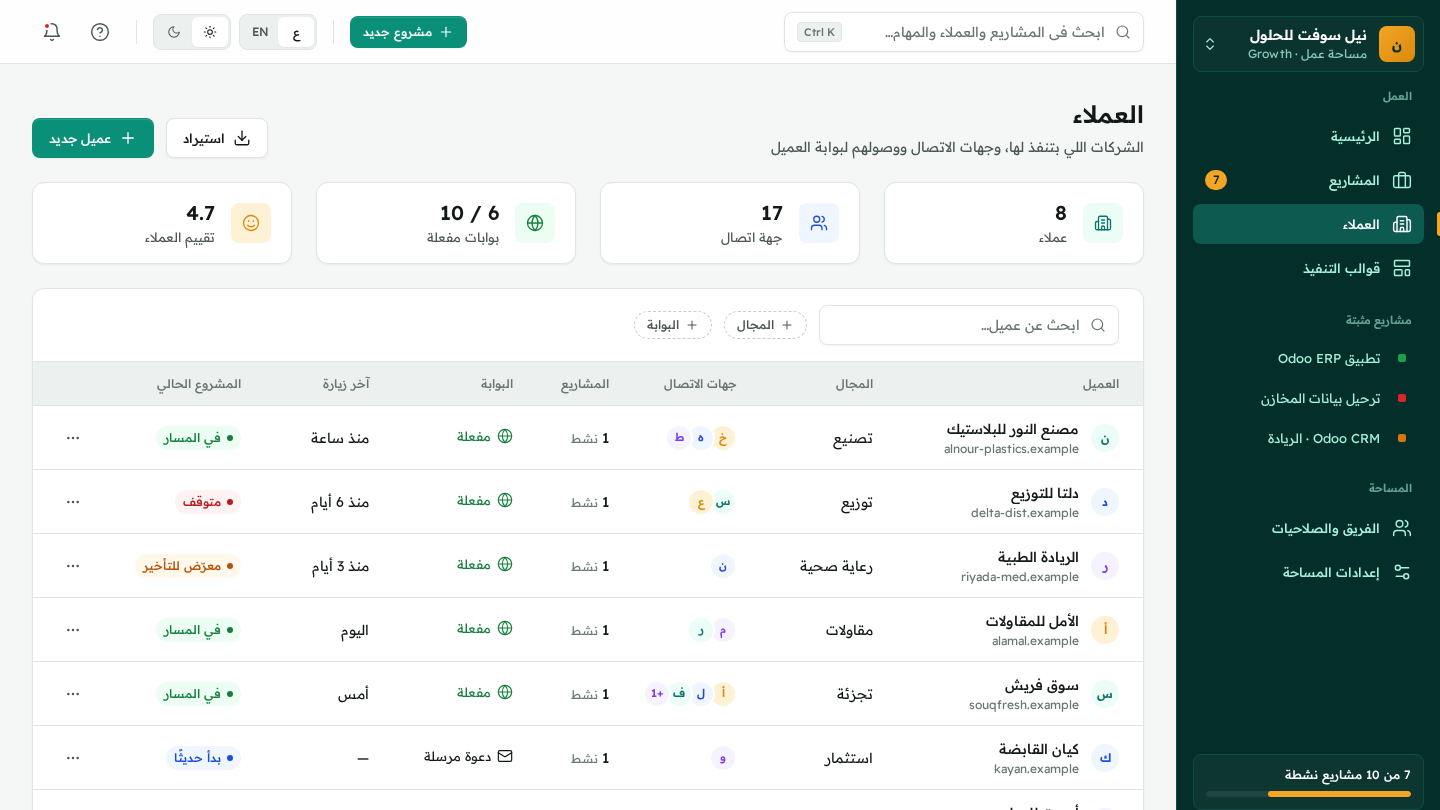
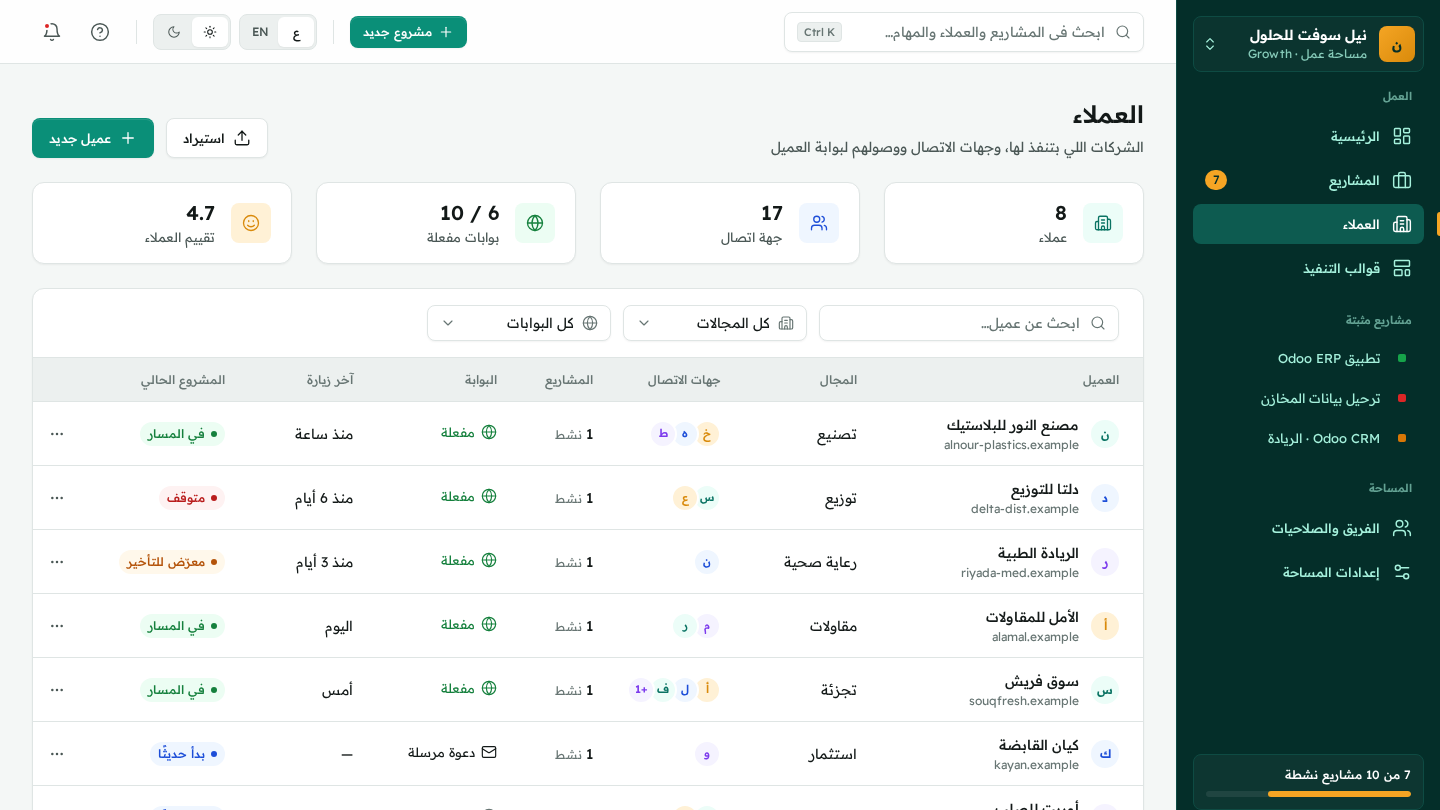
Workspace clients (new/import/view/portal) and team (invites, guests, roles)

diff --git a/ws-clients.html b/ws-clients.html
@@ -13,6 +13,9 @@
 .tbl td.co a:hover .nm{color:var(--gl-brand-text)}
 .portal-st{display:inline-flex;align-items:center;gap:6px;font:var(--gl-type-body-sm)}
 .portal-st svg.i{width:16px;height:16px}
+
+.toolbar .sel{width:184px}.toolbar .sel .control{width:100%}
+.toolbar .search{width:300px}
 </style>
 </head>
 <body>
@@ -21,26 +24,62 @@
 <script src="assets/charts.js"></script>
 <script src="assets/data.js"></script>
 <script src="assets/app.js"></script>
+<script src="assets/interact.js"></script>
 <script>
+const IND = [['mfg', 'تصنيع', 'Manufacturing'], ['dist', 'توزيع', 'Distribution'], ['health', 'رعاية صحية', 'Healthcare'], ['const', 'مقاولات', 'Construction'], ['retail', 'تجزئة', 'Retail'], ['hold', 'استثمار', 'Holding'], ['fnb', 'أغذية', 'F&B']];
+const clForm = (L, { ui }) => `<div class="sec-title">${L('الشركة', 'Company')}</div><div class="form-grid">
+  ${ui.field(L('اسم العميل', 'Client name'), ui.input('name', { req: 1, icon: 'building-2' }), { req: 1, full: 1 })}
+  ${ui.field(L('الدومين', 'Domain'), ui.input('domain', { req: 1, ltr: 1, icon: 'globe', ph: 'client.example' }), { req: 1 })}
+  ${ui.field(L('المجال', 'Industry'), ui.select('ind', IND.map(i => [i[0], GL.L(i[1], i[2])]), { ph: L('اختار', 'Choose'), req: 1 }), { req: 1 })}
+  ${ui.field(L('عدد الموظفين', 'Company size'), ui.select('size', ['1–50', '51–200', '201–500', '500+']))}
+  ${ui.field(L('الدولة', 'Country'), ui.select('country', [L('مصر', 'Egypt'), L('السعودية', 'Saudi Arabia'), L('الإمارات', 'UAE')]))}</div>
+  <div class="sec-title">${L('جهة الاتصال الأساسية', 'Primary contact')}</div><div class="form-grid">
+  ${ui.field(L('الاسم', 'Name'), ui.input('cn', { req: 1, icon: 'user' }), { req: 1 })}${ui.field(L('المسمى الوظيفي', 'Job title'), ui.input('ct', { ph: L('المدير المالي', 'CFO') }))}
+  ${ui.field(L('البريد', 'Email'), ui.input('ce', { req: 1, type: 'email', ltr: 1, icon: 'mail', ph: 'name@client.example' }), { req: 1 })}${ui.field(L('الموبايل', 'Phone'), ui.input('cp', { ltr: 1, icon: 'phone', ph: '+20 10 0000 0000' }))}</div>
+  <div class="set-row" style="padding:0"><div class="grow"><div class="t-strong">${L('ابعت دعوة لبوابة العميل', 'Invite to the client portal')}</div><div class="t-sm sec">${L('6 من 10 بوابات مستخدمة في خطتك', '6 of 10 portals used on your plan')}</div></div><span class="switch on" data-static data-val="portal"></span></div>`;
+const clRow = (L, ui, icon, c) => { const ps = { on: ['globe', 'yes', L('مفعلة', 'Active')], inv: ['mail', '', L('دعوة مرسلة', 'Invited')], off: ['ban', 'muted', L('مقفولة', 'Off')] };
+  return `<tr data-row data-ind="${c[11]}" data-portal="${c[7]}">
+          <td class="co"><a class="cell-co" href="#" data-open="view">${ui.av(c[2], c[3], '')}<div><div class="nm" data-f="name">${c[0]}</div><div class="dm" data-f="domain">${c[1]}</div></div></a></td>
+          <td class="sec">${c[4]}</td><td>${ui.stack(c[5])}</td><td><span class="t-strong">${c[6]}</span> <span class="t-cap muted">${L('نشط', 'active')}</span></td>
+          <td data-ps><span class="portal-st ${ps[c[7]][1]}">${icon(ps[c[7]][0])}${ps[c[7]][2]}</span></td><td class="sec">${c[8]}</td>
+          <td>${c[10] ? ui.tag(GL_HEALTH[c[10]][0], L(GL_HEALTH[c[10]][1], GL_HEALTH[c[10]][2])) : `<span class="t-sm muted">${L('مفيش مشروع', 'No project')}</span>`}</td>
+          <td class="right">${ui.menuBtn('cl')}</td></tr>`; };
 GL.mount({
   shell: 'ws', nav: 'ws-clients',
+  modals: {
+    new: { kind: 'drawer', size: 'lg', icon: 'building-2', title: L => L('عميل جديد', 'New client'), body: clForm, submit: L => L('إضافة العميل', 'Add client'), submitIcon: 'plus',
+      add: { table: 'clTbl', row: (v, L) => clRow(L, GL.ui, GL.icon, [v.name, v.domain, v.name.trim()[0], 'av-teal', GL.L(...(IND.find(i => i[0] === v.ind) || ['', '—', '—']).slice(1)), [[v.cn.trim()[0], 'av-amber']], 0, v.portal ? 'inv' : 'off', '—', '', '', v.ind]) },
+      toast: (L, v) => [L('اتضاف العميل', 'Client added'), v.portal ? L('واتبعتت دعوة البوابة لـ ', 'Portal invite sent to ') + v.ce : ''] },
+    edit: { kind: 'drawer', size: 'lg', icon: 'pencil', title: L => L('تعديل العميل', 'Edit client'), sub: (L, c) => c.name, body: clForm, toast: L => [L('اتحفظ العميل', 'Client saved'), ''] },
+    import: { icon: 'upload', title: L => L('استيراد عملاء', 'Import clients'), sub: L => L('من ملف CSV أو Excel', 'From a CSV or Excel file'),
+      body: L => `<div class="dropzone">${GL.icon('cloud-upload')}<span>${L('اسحب الملف هنا أو', 'Drop the file here or')} <b class="brand-t">${L('اختار', 'browse')}</b></span><a class="link t-cap" href="#" data-toast="success|${L('اتحمل القالب', 'Template downloaded')}|clients_template.csv">${L('حمّل القالب', 'Download template')}</a></div>
+        <div class="att" style="width:100%">${GL.icon('file-spreadsheet', 'sm')}<span class="ltr grow" style="text-align:start">crm_export_nov.csv</span><span class="muted">24 ${L('سطر', 'rows')}</span>${GL.ui.tag('success', L('جاهز', 'Ready'), false)}</div>
+        <table class="tbl compact"><thead><tr><th>${L('عمود الملف', 'File column')}</th><th>${L('الحقل', 'Maps to')}</th></tr></thead><tbody>${[['company_name', L('اسم العميل', 'Client name')], ['website', L('الدومين', 'Domain')], ['contact_email', L('بريد جهة الاتصال', 'Contact email')], ['sector', L('المجال', 'Industry')]].map(r => `<tr><td class="ltr">${r[0]}</td><td>${GL.ui.select('m' + r[0], [r[1], L('تجاهل', 'Skip')], { cls: 'sm' })}</td></tr>`).join('')}</tbody></table>`,
+      submit: L => L('استيراد 24 عميل', 'Import 24 clients'), toast: L => [L('اتستورد 24 عميل', '24 clients imported'), L('2 اتجاهلوا لأنهم موجودين', '2 skipped as duplicates')] },
+    view: { kind: 'drawer', size: 'lg', icon: 'building-2', title: (L, c) => c.name, sub: (L, c) => c.domain,
+      body: (L, { ui }) => `<div class="sec-title">${L('جهات الاتصال', 'Contacts')}</div><div class="stack gap-2">${[[L('خ', 'KM'), 'av-amber', L('خالد منصور', 'Khaled Mansour'), L('المدير المالي · صاحب القرار', 'CFO · Decision maker'), 'on'], [L('ه', 'HS'), 'av-blue', L('هبة سليم', 'Heba Selim'), L('مديرة المشتريات', 'Procurement manager'), 'on'], [L('ط', 'TF'), 'av-violet', L('طارق فوزي', 'Tarek Fawzy'), L('مسؤول IT', 'IT lead'), 'inv']].map(c => `<div class="apc" data-row>${ui.av(c[0], c[1], 'round')}<div class="grow"><div class="t-strong" data-f="name">${c[2]}</div><div class="t-sm sec">${c[3]}</div></div>${c[4] === 'on' ? ui.tag('success', L('في البوابة', 'In portal')) : ui.tag('info', L('دعوة مرسلة', 'Invited'))}<button type="button" class="icon-btn sm" data-delete="${c[2]}">${GL.icon('trash-2')}</button></div>`).join('')}<button type="button" class="btn btn-outline btn-sm" style="align-self:flex-start" data-toast="info|${L('أضف جهة اتصال من صفحة المشروع', 'Add contacts from the project page')}|">${GL.icon('plus', 'sm')}${L('جهة اتصال', 'Contact')}</button></div>
+        <div class="sec-title">${L('المشاريع', 'Projects')}</div><a class="apc" href="ws-project.html"><span class="ic-tile">${GL.icon('briefcase', 'sm')}</span><div class="grow"><div class="t-strong">${L('تطبيق Odoo ERP', 'Odoo ERP rollout')}</div><div class="t-sm sec">${L('UAT · 72% · الإطلاق 15 ديسمبر', 'UAT · 72% · go-live Dec 15')}</div></div>${ui.tag('success', L('في المسار', 'On track'))}</a>`,
+      foot: L => `<a class="btn btn-outline" href="portal.html">${GL.icon('external-link', 'sm')}${L('معاينة البوابة', 'Preview portal')}</a><button type="button" class="btn btn-primary" data-close>${L('تم', 'Done')}</button>` }
+  },
+  menus: { cl: [{ icon: 'eye', ar: 'عرض العميل', en: 'View client', open: 'view' }, { icon: 'pencil', ar: 'تعديل', en: 'Edit', open: 'edit' }, { icon: 'briefcase', ar: 'مشروع جديد', en: 'New project', href: 'ws-projects.html?open=new' }, { icon: 'mail', ar: 'إعادة إرسال دعوة البوابة', en: 'Resend portal invite', toast: (L, n) => `success|${L('اتبعتت الدعوة', 'Invite resent')}|${n}` }, { icon: 'ban', ar: 'قفل البوابة', en: 'Disable portal', confirm: 'off' }, '-', { icon: 'trash-2', ar: 'حذف', en: 'Delete', del: 1, danger: 1 }] },
+  confirms: { off: { danger: 1, icon: 'ban', title: (L, c) => L(`قفل بوابة ${c.name}؟`, `Disable the portal for ${c.name}?`), text: L => L('جهات الاتصال مش هيقدروا يدخلوا، والبيانات هتفضل محفوظة.', 'Contacts lose access; data is kept.'), btn: L => L('قفل', 'Disable'), run: (L, c, row) => { row.querySelector('[data-ps]').innerHTML = `<span class="portal-st muted">${GL.icon('ban')}${L('مقفولة', 'Off')}</span>`; row.dataset.portal = 'off'; GLI.flash(row); }, toast: L => [L('اتقفلت البوابة', 'Portal disabled'), ''] } },
   title: L => L('العملاء', 'Clients'),
   render: (L, { icon, ui }) => {
     const C = [
-      [L('مصنع النور للبلاستيك', 'Al Nour Plastics'), 'alnour-plastics.example', L('ن', 'AN'), 'av-teal', L('تصنيع', 'Manufacturing'), [[L('خ', 'KM'), 'av-amber'], [L('ه', 'HS'), 'av-blue'], [L('ط', 'TF'), 'av-violet']], 1, 'on', L('منذ ساعة', '1h ago'), '$48,000', 'ok'],
-      [L('دلتا للتوزيع', 'Delta Distribution'), 'delta-dist.example', L('د', 'DD'), 'av-blue', L('توزيع', 'Distribution'), [[L('س', 'SM'), 'av-teal'], [L('ع', 'AR'), 'av-amber']], 1, 'on', L('منذ 6 أيام', '6 days ago'), '$22,500', 'blocked'],
-      [L('الريادة الطبية', 'Riyada Medical'), 'riyada-med.example', L('ر', 'RM'), 'av-violet', L('رعاية صحية', 'Healthcare'), [[L('ن', 'NA'), 'av-blue']], 1, 'on', L('منذ 3 أيام', '3 days ago'), '$18,000', 'risk'],
-      [L('الأمل للمقاولات', 'Al Amal Contracting'), 'alamal.example', L('أ', 'AA'), 'av-amber', L('مقاولات', 'Construction'), [[L('م', 'MS'), 'av-violet'], [L('ر', 'RA'), 'av-teal']], 1, 'on', L('اليوم', 'Today'), '$15,600', 'ok'],
-      [L('سوق فريش', 'Souq Fresh'), 'souqfresh.example', L('س', 'SF'), 'av-teal', L('تجزئة', 'Retail'), [[L('أ', 'AK'), 'av-amber'], [L('ل', 'LM'), 'av-blue'], [L('ف', 'FH'), 'av-teal'], ['+1', 'av-violet']], 1, 'on', L('أمس', 'Yesterday'), '$26,000', 'ok'],
-      [L('كيان القابضة', 'Kayan Holding'), 'kayan.example', L('ك', 'KH'), 'av-blue', L('استثمار', 'Holding'), [[L('و', 'WS'), 'av-violet']], 1, 'inv', '—', '$31,000', 'kick'],
-      [L('أوربت للصلب', 'Orbit Steel'), 'orbit-steel.example', L('أ', 'OS'), 'av-violet', L('تصنيع', 'Manufacturing'), [[L('ج', 'GN'), 'av-teal'], [L('ش', 'SH'), 'av-amber']], 1, 'off', '—', '$54,000', 'kick'],
-      [L('وادي للأغذية', 'Wadi Foods'), 'wadi-foods.example', L('و', 'WF'), 'av-amber', L('أغذية', 'F&B'), [[L('ه', 'HZ'), 'av-blue']], 0, 'on', L('منذ شهر', '1 month ago'), '$19,800', 'done']
+      [L('مصنع النور للبلاستيك', 'Al Nour Plastics'), 'alnour-plastics.example', L('ن', 'AN'), 'av-teal', L('تصنيع', 'Manufacturing'), [[L('خ', 'KM'), 'av-amber'], [L('ه', 'HS'), 'av-blue'], [L('ط', 'TF'), 'av-violet']], 1, 'on', L('منذ ساعة', '1h ago'), '$48,000', 'ok', 'mfg'],
+      [L('دلتا للتوزيع', 'Delta Distribution'), 'delta-dist.example', L('د', 'DD'), 'av-blue', L('توزيع', 'Distribution'), [[L('س', 'SM'), 'av-teal'], [L('ع', 'AR'), 'av-amber']], 1, 'on', L('منذ 6 أيام', '6 days ago'), '$22,500', 'blocked', 'dist'],
+      [L('الريادة الطبية', 'Riyada Medical'), 'riyada-med.example', L('ر', 'RM'), 'av-violet', L('رعاية صحية', 'Healthcare'), [[L('ن', 'NA'), 'av-blue']], 1, 'on', L('منذ 3 أيام', '3 days ago'), '$18,000', 'risk', 'health'],
+      [L('الأمل للمقاولات', 'Al Amal Contracting'), 'alamal.example', L('أ', 'AA'), 'av-amber', L('مقاولات', 'Construction'), [[L('م', 'MS'), 'av-violet'], [L('ر', 'RA'), 'av-teal']], 1, 'on', L('اليوم', 'Today'), '$15,600', 'ok', 'const'],
+      [L('سوق فريش', 'Souq Fresh'), 'souqfresh.example', L('س', 'SF'), 'av-teal', L('تجزئة', 'Retail'), [[L('أ', 'AK'), 'av-amber'], [L('ل', 'LM'), 'av-blue'], [L('ف', 'FH'), 'av-teal'], ['+1', 'av-violet']], 1, 'on', L('أمس', 'Yesterday'), '$26,000', 'ok', 'retail'],
+      [L('كيان القابضة', 'Kayan Holding'), 'kayan.example', L('ك', 'KH'), 'av-blue', L('استثمار', 'Holding'), [[L('و', 'WS'), 'av-violet']], 1, 'inv', '—', '$31,000', 'kick', 'hold'],
+      [L('أوربت للصلب', 'Orbit Steel'), 'orbit-steel.example', L('أ', 'OS'), 'av-violet', L('تصنيع', 'Manufacturing'), [[L('ج', 'GN'), 'av-teal'], [L('ش', 'SH'), 'av-amber']], 1, 'off', '—', '$54,000', 'kick', 'mfg'],
+      [L('وادي للأغذية', 'Wadi Foods'), 'wadi-foods.example', L('و', 'WF'), 'av-amber', L('أغذية', 'F&B'), [[L('ه', 'HZ'), 'av-blue']], 0, 'on', L('منذ شهر', '1 month ago'), '$19,800', 'done', 'fnb']
     ];
-    const ps = { on: ['globe', 'yes', L('مفعلة', 'Active')], inv: ['mail', '', L('دعوة مرسلة', 'Invited')], off: ['ban', 'muted', L('مقفولة', 'Off')] };
+    const _ps = { on: ['globe', 'yes', L('مفعلة', 'Active')], inv: ['mail', '', L('دعوة مرسلة', 'Invited')], off: ['ban', 'muted', L('مقفولة', 'Off')] };
     return `
     <div class="page-head">
       <div><h1 class="t-h1">${L('العملاء', 'Clients')}</h1><p class="sub">${L('الشركات اللي بتنفذ لها، وجهات الاتصال ووصولهم لبوابة العميل', 'Companies you implement for, their contacts and client-portal access')}</p></div>
-      <div class="actions"><button class="btn btn-outline">${icon('download', 'sm')}${L('استيراد', 'Import')}</button><button class="btn btn-primary">${icon('plus', 'sm')}${L('عميل جديد', 'New client')}</button></div>
+      <div class="actions"><button class="btn btn-outline" data-open="import">${icon('upload', 'sm')}${L('استيراد', 'Import')}</button><button class="btn btn-primary" data-open="new">${icon('plus', 'sm')}${L('عميل جديد', 'New client')}</button></div>
     </div>
     <section class="stat-strip">
       ${ui.mini('building-2', '', '8', L('عملاء', 'Clients'))}
@@ -49,16 +88,11 @@ GL.mount({
       ${ui.mini('smile', ui.tone.accent, '4.7', L('تقييم العملاء', 'Client rating'))}
     </section>
     <section class="card table-wrap">
-      <div class="toolbar"><label class="control search">${icon('search', 'sm')}<input placeholder="${L('ابحث عن عميل…', 'Search clients…')}"></label><span class="chip">${icon('plus')}${L('المجال', 'Industry')}</span><span class="chip">${icon('plus')}${L('البوابة', 'Portal')}</span></div>
-      <table class="tbl">
-        <colgroup><col><col style="width:136px"><col style="width:128px"><col style="width:96px"><col style="width:144px"><col style="width:128px"><col style="width:152px"><col style="width:72px"></colgroup>
+      <div class="toolbar"><label class="control search sm">${icon('search', 'sm')}<input data-search="clTbl" placeholder="${L('ابحث عن عميل…', 'Search clients…')}"></label><span class="sel sm">${ui.select('i', IND.map(i => [i[0], L(i[1], i[2])]), { ph: L('كل المجالات', 'All industries'), filter: 'clTbl', key: 'ind', cls: 'sm', icon: 'building-2' })}</span><span class="sel sm">${ui.select('p', [['on', L('مفعلة', 'Active')], ['inv', L('دعوة مرسلة', 'Invited')], ['off', L('مقفولة', 'Off')]], { ph: L('كل البوابات', 'Any portal status'), filter: 'clTbl', key: 'portal', cls: 'sm', icon: 'globe' })}</span></div>
+      <table class="tbl" id="clTbl">
+        <colgroup><col><col style="width:136px"><col style="width:128px"><col style="width:96px"><col style="width:144px"><col style="width:128px"><col style="width:152px"><col style="width:56px"></colgroup>
         <thead><tr><th>${L('العميل', 'Client')}</th><th>${L('المجال', 'Industry')}</th><th>${L('جهات الاتصال', 'Contacts')}</th><th>${L('المشاريع', 'Projects')}</th><th>${L('البوابة', 'Portal')}</th><th>${L('آخر زيارة', 'Last visit')}</th><th>${L('المشروع الحالي', 'Current project')}</th><th></th></tr></thead>
-        <tbody>${C.map(c => `<tr>
-          <td class="co"><a class="cell-co" href="ws-project.html">${ui.av(c[2], c[3], '')}<div><div class="nm">${c[0]}</div><div class="dm">${c[1]}</div></div></a></td>
-          <td class="sec">${c[4]}</td><td>${ui.stack(c[5])}</td><td><span class="t-strong">${c[6]}</span> <span class="t-cap muted">${L('نشط', 'active')}</span></td>
-          <td><span class="portal-st ${ps[c[7]][1]}">${icon(ps[c[7]][0])}${ps[c[7]][2]}</span></td><td class="sec">${c[8]}</td>
-          <td>${ui.tag(GL_HEALTH[c[10]][0], L(GL_HEALTH[c[10]][1], GL_HEALTH[c[10]][2]))}</td>
-          <td class="right"><button class="icon-btn sm">${icon('more')}</button></td></tr>`).join('')}</tbody>
+        <tbody>${C.map(c => clRow(L, ui, icon, c)).join('')}</tbody>
       </table>
     </section>`;
   }

diff --git a/ws-team.html b/ws-team.html
@@ -20,6 +20,8 @@
 .seats b{font:var(--gl-type-kpi)}
 .skills{display:flex;gap:4px;flex-wrap:nowrap;overflow:hidden}
 .skills .tag{height:22px}
+
+.toolbar .sel{width:184px}.toolbar .sel .control{width:100%}
 </style>
 </head>
 <body>
@@ -28,13 +30,34 @@
 <script src="assets/charts.js"></script>
 <script src="assets/data.js"></script>
 <script src="assets/app.js"></script>
+<script src="assets/interact.js"></script>
 <script>
+const tmR = L => ({ owner: ['accent', L('مالك', 'Owner')], admin: ['violet', L('مسؤول', 'Admin')], pm: ['brand', L('مدير مشروع', 'Project manager')], consultant: ['info', L('استشاري', 'Consultant')], viewer: ['neutral', L('مشاهد', 'Viewer')] });
+const invRow = (L, e, role, sent) => `<tr data-row><td><div class="cell-co"><span class="avatar sm round" style="background:var(--gl-bg-subtle);color:var(--gl-text-muted)">${GL.icon('mail', 'xs')}</span><div class="nm ltr" style="text-align:start" data-f="name">${e}</div></div></td><td>${GL.ui.tag(tmR(L)[role][0], tmR(L)[role][1], false)}</td><td class="sec">${sent}</td><td class="right"><div class="row gap-2" style="justify-content:flex-end"><button class="btn btn-ghost btn-sm" data-toast="success|${L('اتبعتت الدعوة تاني', 'Invite resent')}|${e}">${GL.icon('refresh', 'sm')}${L('إعادة', 'Resend')}</button><button class="btn btn-ghost btn-sm" style="color:var(--gl-danger-fg)" data-delete="${e}">${L('إلغاء', 'Revoke')}</button></div></td></tr>`;
 GL.mount({
   shell: 'ws', nav: 'ws-team',
+  modals: {
+    invite: { icon: 'user-plus', title: L => L('دعوة أعضاء', 'Invite members'), sub: L => L('20 مقعد متاح في خطة Growth', '20 seats left on Growth'),
+      body: (L, { ui }) => `${ui.field(L('البريد', 'Email'), ui.input('email', { req: 1, type: 'email', ltr: 1, icon: 'mail', ph: 'name@nilesoft.example' }), { req: 1, hint: L('لدعوة أكتر من شخص، ابعت الدعوة وكرر', 'To invite several people, send and repeat') })}
+        ${ui.field(L('الدور', 'Role'), ui.select('role', [['consultant', L('استشاري', 'Consultant')], ['pm', L('مدير مشروع', 'Project manager')], ['admin', L('مسؤول', 'Admin')], ['viewer', L('مشاهد', 'Viewer')]], { icon: 'shield' }))}
+        <div class="field"><label>${L('المشاريع', 'Projects')} <span class="t-cap muted">(${L('اختياري', 'optional')})</span></label><div class="row gap-2 wrap" data-multi>${GL_PROJECTS.slice(0, 5).map((p, i) => `<span class="opt ${i === 0 ? 'on' : ''}" style="padding:6px 12px"><span class="box ${i === 0 ? 'on' : ''}">${i === 0 ? GL.icon('check') : ''}</span>${GL.L(p[0], p[1])}</span>`).join('')}</div></div>
+        ${ui.field(L('رسالة', 'Personal note'), ui.textarea('note', { rows: 3, ph: L('أهلًا بيك في فريق نيل سوفت!', 'Welcome to the NileSoft team!') }), { opt: L('اختياري', 'optional') })}`,
+      submit: L => L('إرسال الدعوة', 'Send invite'), submitIcon: 'send',
+      onSubmit: v => { GLI.UI.tm = 'pending'; document.querySelector('[data-tabs=tm] [data-tab=pending]').click(); },
+      add: { table: 'invTbl', row: (v, L) => invRow(L, v.email, v.role, L('الآن', 'Just now')) }, toast: (L, v) => [L('اتبعتت الدعوة', 'Invite sent'), v.email] },
+    role: { size: 'sm', icon: 'user-cog', title: L => L('تغيير الدور', 'Change role'), sub: (L, c) => c.name, body: (L, { ui }) => ui.field(L('الدور', 'Role'), ui.select('role', [['admin', L('مسؤول', 'Admin')], ['pm', L('مدير مشروع', 'Project manager')], ['consultant', L('استشاري', 'Consultant')], ['viewer', L('مشاهد', 'Viewer')]])),
+      onSubmit: (v, { row }) => { const R = tmR(GL.L); if (row) { row.querySelector('[data-rl]').innerHTML = GL.ui.tag(R[v.role][0], R[v.role][1], false); row.dataset.role = v.role; GLI.flash(row); } }, toast: L => [L('اتغير الدور', 'Role changed'), ''] },
+    assign: { size: 'sm', icon: 'briefcase', title: L => L('إضافة لمشروع', 'Add to project'), sub: (L, c) => c.name, body: (L, { ui }) => `${ui.field(L('المشروع', 'Project'), ui.select('p', GL_PROJECTS.map(p => GL.L(p[0], p[1])), { ph: L('اختار مشروع', 'Choose a project'), req: 1 }), { req: 1 })}${ui.field(L('نسبة التخصيص', 'Allocation'), ui.select('a', ['25%', '50%', '75%', '100%'], { val: '50%' }))}`, submit: L => L('إضافة', 'Add'), toast: (L, v) => [L('اتضاف للمشروع', 'Added to project'), v.p] },
+    guest: { icon: 'user-plus', title: L => L('دعوة ضيف', 'Invite a guest'), sub: L => L('مستشار خارجي بيشوف مشروع واحد بس، ومش بيتحسب مقعد', 'An outside consultant who sees one project only — no seat used'),
+      body: (L, { ui }) => `<div class="form-grid">${ui.field(L('الاسم', 'Name'), ui.input('name', { req: 1 }), { req: 1 })}${ui.field(L('البريد', 'Email'), ui.input('email', { req: 1, type: 'email', ltr: 1 }), { req: 1 })}${ui.field(L('المشروع', 'Project'), ui.select('p', GL_PROJECTS.map(p => GL.L(p[0], p[1]))), { full: 1 })}${ui.field(L('ينتهي الوصول', 'Access expires'), ui.input('exp', { type: 'date', ltr: 1 }), { full: 1 })}</div>`,
+      submit: L => L('دعوة', 'Invite guest'), add: { table: 'gTbl', row: (v, L) => `<tr data-row><td><div class="cell-co">${GL.ui.av(v.name.trim()[0], 'av-amber', 'round')}<div><div class="nm" data-f="name">${v.name}</div><div class="dm">${v.email}</div></div></div></td><td>${v.p}</td><td class="sec">${v.exp || '—'}</td><td class="right"><button class="btn btn-ghost btn-sm" style="color:var(--gl-danger-fg)" data-delete="${v.name}">${L('إزالة', 'Remove')}</button></td></tr>` }, toast: L => [L('اتبعتت دعوة الضيف', 'Guest invited'), ''] }
+  },
+  menus: { tm: [{ icon: 'user-cog', ar: 'تغيير الدور', en: 'Change role', open: 'role' }, { icon: 'briefcase', ar: 'إضافة لمشروع', en: 'Add to project', open: 'assign' }, { icon: 'key-round', ar: 'إعادة ضبط كلمة المرور', en: 'Send password reset', toast: (L, n) => `success|${L('اتبعت اللينك', 'Reset link sent')}|${n}` }, '-', { icon: 'user-x', ar: 'إيقاف', en: 'Deactivate', confirm: 'deact' }, { icon: 'trash-2', ar: 'إزالة من المساحة', en: 'Remove from workspace', del: 1, danger: 1 }] },
+  confirms: { deact: { danger: 1, icon: 'user-x', title: (L, c) => L(`إيقاف ${c.name}؟`, `Deactivate ${c.name}?`), text: L => L('مهامه المفتوحة هتفضل زي ما هي، ومقعده هيتحرر.', 'Open tasks stay as they are and the seat is freed.'), btn: L => L('إيقاف', 'Deactivate'), run: (L, c, row) => { row.style.opacity = .55; }, toast: (L, c) => [L('اتوقف العضو', 'Member deactivated'), c.name] } },
   title: L => L('الفريق والصلاحيات', 'Team & roles'),
   render: (L, { icon, ui }) => {
     const T = GL_TEAM;
-    const R = { owner: ['accent', L('مالك', 'Owner')], admin: ['violet', L('مسؤول', 'Admin')], pm: ['brand', L('مدير مشروع', 'Project manager')], consultant: ['info', L('استشاري', 'Consultant')], viewer: ['neutral', L('مشاهد', 'Viewer')] };
+    const R0 = { owner: ['accent', L('مالك', 'Owner')], admin: ['violet', L('مسؤول', 'Admin')], pm: ['brand', L('مدير مشروع', 'Project manager')], consultant: ['info', L('استشاري', 'Consultant')], viewer: ['neutral', L('مشاهد', 'Viewer')] }; const R = tmR(L);
     const rows = [
       ['as', 'ahmed@nilesoft.example', 'owner', 7, 40, ['Odoo', L('مبيعات', 'Sales')]],
       ['ma', 'mona@nilesoft.example', 'pm', 2, 92, ['Odoo', 'PMP']],
@@ -48,21 +71,24 @@ GL.mount({
     return `
     <div class="page-head">
       <div><h1 class="t-h1">${L('الفريق والصلاحيات', 'Team & roles')}</h1><p class="sub">${L('أعضاء شركتك، أدوارهم وحجم الشغل على كل واحد', 'Your company’s members, their roles and workload')}</p></div>
-      <div class="actions"><button class="btn btn-primary">${icon('user-plus', 'sm')}${L('دعوة عضو', 'Invite member')}</button></div>
+      <div class="actions"><button class="btn btn-outline" data-open="guest">${icon('user-plus', 'sm')}${L('دعوة ضيف', 'Invite guest')}</button><button class="btn btn-primary" data-open="invite">${icon('user-plus', 'sm')}${L('دعوة عضو', 'Invite member')}</button></div>
     </div>
     <section class="grid g-12" style="align-items:start">
       <div class="span-8 card table-wrap">
-        <div class="tabs" style="padding-inline:var(--gl-space-6)"><span class="tab active">${L('الأعضاء', 'Members')} <span class="badge">8</span></span><span class="tab">${L('دعوات معلقة', 'Pending invites')} <span class="badge">2</span></span><span class="tab">${L('الضيوف', 'Guests')} <span class="badge">1</span></span></div>
-        <div class="toolbar"><label class="control search">${icon('search', 'sm')}<input placeholder="${L('ابحث بالاسم أو المهارة…', 'Search by name or skill…')}"></label><span class="chip">${icon('plus')}${L('الدور', 'Role')}</span></div>
-        <table class="tbl">
-          <colgroup><col><col style="width:168px"><col style="width:88px"><col style="width:152px"><col style="width:72px"></colgroup>
+        <div class="tabs" style="padding-inline:var(--gl-space-6)" data-tabs="tm"><span class="tab active" data-tab="members">${L('الأعضاء', 'Members')} <span class="badge">8</span></span><span class="tab" data-tab="pending">${L('دعوات معلقة', 'Pending invites')} <span class="badge">2</span></span><span class="tab" data-tab="guests">${L('الضيوف', 'Guests')} <span class="badge">1</span></span></div>
+        <div data-pane-group="tm" data-pane="members">
+        <div class="toolbar"><label class="control search sm">${icon('search', 'sm')}<input data-search="tmTbl" placeholder="${L('ابحث بالاسم أو المهارة…', 'Search by name or skill…')}"></label><span class="sel sm">${ui.select('r', Object.entries(R).map(([k, r]) => [k, r[1]]), { ph: L('كل الأدوار', 'All roles'), filter: 'tmTbl', key: 'role', cls: 'sm', icon: 'shield' })}</span></div>
+        <table class="tbl" id="tmTbl">
+          <colgroup><col><col style="width:152px"><col style="width:88px"><col style="width:144px"><col style="width:56px"></colgroup>
           <thead><tr><th>${L('العضو', 'Member')}</th><th>${L('الدور', 'Role')}</th><th>${L('المشاريع', 'Projects')}</th><th>${L('الضغط الأسبوع ده', 'Load this week')}</th><th></th></tr></thead>
-          <tbody>${rows.map(r => `<tr>
-            <td><div class="cell-co">${ui.av(L(T[r[0]][2], T[r[0]][3]), T[r[0]][4], 'round')}<div><div class="nm">${L(T[r[0]][0], T[r[0]][1])}</div><div class="dm">${r[1]}</div></div></div></td>
-            <td>${ui.tag(R[r[2]][0], R[r[2]][1], false)}</td><td><span class="t-strong">${r[3]}</span></td>
+          <tbody>${rows.map(r => `<tr data-row data-role="${r[2]}">
+            <td><div class="cell-co">${ui.av(L(T[r[0]][2], T[r[0]][3]), T[r[0]][4], 'round')}<div><div class="nm" data-f="name">${L(T[r[0]][0], T[r[0]][1])}</div><div class="dm">${r[1]}</div></div></div></td>
+            <td data-rl>${ui.tag(R[r[2]][0], R[r[2]][1], false)}</td><td><span class="t-strong">${r[3]}</span></td>
             <td><div class="util"><div class="bar thin ${r[4] > 100 ? 'danger' : r[4] > 90 ? 'warn' : ''}"><i style="width:${Math.min(r[4], 100)}%"></i></div><span class="p" style="${r[4] > 100 ? 'color:var(--gl-danger-fg)' : ''}">${r[4]}%</span></div></td>
-            <td class="right"><button class="icon-btn sm">${icon('more')}</button></td></tr>`).join('')}</tbody>
-        </table>
+            <td class="right">${r[2] === 'owner' ? '' : ui.menuBtn('tm')}</td></tr>`).join('')}</tbody>
+        </table></div>
+        <div data-pane-group="tm" data-pane="pending" hidden><table class="tbl" id="invTbl"><colgroup><col><col style="width:160px"><col style="width:112px"><col style="width:176px"></colgroup><thead><tr><th>${L('البريد', 'Email')}</th><th>${L('الدور', 'Role')}</th><th>${L('اتبعتت', 'Sent')}</th><th></th></tr></thead><tbody>${invRow(L, 'karim@nilesoft.example', 'consultant', L('منذ يومين', '2 days ago'))}${invRow(L, 'salma@nilesoft.example', 'pm', L('منذ 5 أيام', '5 days ago'))}</tbody></table></div>
+        <div data-pane-group="tm" data-pane="guests" hidden><table class="tbl" id="gTbl"><colgroup><col><col style="width:200px"><col style="width:136px"><col style="width:112px"></colgroup><thead><tr><th>${L('الضيف', 'Guest')}</th><th>${L('المشروع', 'Project')}</th><th>${L('ينتهي', 'Expires')}</th><th></th></tr></thead><tbody><tr data-row><td><div class="cell-co">${ui.av(L('ف', 'FS'), 'av-amber', 'round')}<div><div class="nm" data-f="name">${L('فادي سمير', 'Fady Samir')}</div><div class="dm">fady@freelance.example</div></div></div></td><td>${L('تخطيط التصنيع MRP', 'Manufacturing MRP')}</td><td class="sec">${L('31 ديسمبر', 'Dec 31')}</td><td class="right"><button class="btn btn-ghost btn-sm" style="color:var(--gl-danger-fg)" data-delete="${L('فادي سمير', 'Fady Samir')}">${L('إزالة', 'Remove')}</button></td></tr></tbody></table></div>
       </div>
       <aside class="span-4 side">
         <div class="card"><div class="card-head"><div><h3 class="t-h3">${L('المقاعد', 'Seats')}</h3><p class="sub">${L('خطة Growth', 'Growth plan')}</p></div><a class="btn btn-outline btn-sm" href="ws-settings.html">${L('ترقية', 'Upgrade')}</a></div>

diff --git a/assets/screens.css b/assets/screens.css
@@ -319,3 +319,5 @@ textarea.ta{display:block;width:100%;border:0;outline:0;resize:none;background:t
 textarea.ta::placeholder{color:var(--gl-text-muted)}
 .att .icon-btn{width:20px;height:20px;margin-inline-start:2px}
 .tbl td.right:last-child,.tbl th:last-child:empty{padding-inline:var(--gl-space-2)}
+.apc{display:flex;align-items:center;gap:var(--gl-space-3);padding:var(--gl-space-3) var(--gl-space-4);border:1px solid var(--gl-border-default);border-radius:var(--gl-radius-md);color:inherit;text-decoration:none}
+a.apc:hover{border-color:var(--gl-border-strong);background:var(--gl-bg-subtle)}
